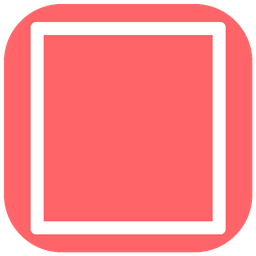
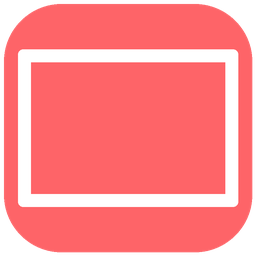
Ecran interne redessine en PAYSAGE d'apres le depot 'iPhone Duo - Night Sky - Inner Open Landscape' : grand rectangle ratio 1,40, coins 5 px, sur rouge. Inner_Display.png?v=2, app.js 202610251500.

Changed region(s): [[0.0625, 0.0625, 0.9375, 0.9375]]

diff --git a/iPhone/js/app.js b/iPhone/js/app.js
@@ -688,7 +688,7 @@ const componentIcons = {
     'Post Diags Failed': getIconPath('Post_Diags_Failed.svg'),
     'pSIM': getSquareIconPath('enclosure.svg'),
     'Outer Display': getSquareIconPath('Outer_Display.png?v=1'),
-    'Inner Display': getSquareIconPath('Inner_Display.png?v=1'),
+    'Inner Display': getSquareIconPath('Inner_Display.png?v=2'),
     'Inner Display Assembly': getSquareIconPath('Inner_Display_Assembly.png?v=2'),
     'Battery 1': getSquareIconPath('Battery_1.png?v=1'),
     'Battery 2': getSquareIconPath('Battery_2.png?v=1'),
@@ -727,7 +727,7 @@ const componentIconsLarge = {
     'Post Diags Failed': getIconPath('Post_Diags_Failed.svg'),
     'pSIM': getIconPath('enclosure.svg'),
     'Outer Display': getSquareIconPath('Outer_Display.png?v=1'),
-    'Inner Display': getSquareIconPath('Inner_Display.png?v=1'),
+    'Inner Display': getSquareIconPath('Inner_Display.png?v=2'),
     'Inner Display Assembly': getSquareIconPath('Inner_Display_Assembly.png?v=2'),
     'Battery 1': getSquareIconPath('Battery_1.png?v=1'),
     'Battery 2': getSquareIconPath('Battery_2.png?v=1'),

diff --git a/Mac/index.html b/Mac/index.html
@@ -291,6 +291,6 @@ body.mode-genius .dashboard-wrapper {
     <script src="./js/state.js?v=202609240526"></script>
     <script src="./js/render.js?v=202609240526"></script>
     <script src="./js/handlers.js?v=202609241141"></script>
-    <script src="./js/app.js?v=202610251430"></script>
+    <script src="./js/app.js?v=202610251500"></script>
 </body>
 </html>

diff --git a/iPhone/guides/iphone_15_plus_screw.html b/iPhone/guides/iphone_15_plus_screw.html
@@ -1001,7 +1001,7 @@
         });
     </script>
     <script src="../../assets/js/shared-app.js?v=202610031230"></script>
-    <script src="../js/app.js?v=202610251430"></script>
+    <script src="../js/app.js?v=202610251500"></script>
 </body>
 
 </html>

diff --git a/iPhone/guides/iphone_17_pro_max_screw.html b/iPhone/guides/iphone_17_pro_max_screw.html
@@ -1059,7 +1059,7 @@
         });
     </script>
     <script src="../../assets/js/shared-app.js?v=202610031230"></script>
-    <script src="../js/app.js?v=202610251430"></script>
+    <script src="../js/app.js?v=202610251500"></script>
 </body>
 
 </html>

diff --git a/iPhone/guides/iphone_17_pro_screw.html b/iPhone/guides/iphone_17_pro_screw.html
@@ -1058,7 +1058,7 @@
         });
     </script>
     <script src="../../assets/js/shared-app.js?v=202610031230"></script>
-    <script src="../js/app.js?v=202610251430"></script>
+    <script src="../js/app.js?v=202610251500"></script>
 </body>
 
 </html>

diff --git a/iPhone/guides/iphone_17_screw.html b/iPhone/guides/iphone_17_screw.html
@@ -1041,7 +1041,7 @@
         });
     </script>
     <script src="../../assets/js/shared-app.js?v=202610031230"></script>
-    <script src="../js/app.js?v=202610251430"></script>
+    <script src="../js/app.js?v=202610251500"></script>
 </body>
 
 </html>

diff --git a/iPhone/guides/iphone_18_pro_max_screw.html b/iPhone/guides/iphone_18_pro_max_screw.html
@@ -1059,7 +1059,7 @@
         });
     </script>
     <script src="../../assets/js/shared-app.js?v=202610031230"></script>
-    <script src="../js/app.js?v=202610251430"></script>
+    <script src="../js/app.js?v=202610251500"></script>
 </body>
 
 </html>

diff --git a/iPhone/guides/iphone_18_pro_screw.html b/iPhone/guides/iphone_18_pro_screw.html
@@ -1058,7 +1058,7 @@
         });
     </script>
     <script src="../../assets/js/shared-app.js?v=202610031230"></script>
-    <script src="../js/app.js?v=202610251430"></script>
+    <script src="../js/app.js?v=202610251500"></script>
 </body>
 
 </html>

diff --git a/iPhone/guides/iphone_air_screw.html b/iPhone/guides/iphone_air_screw.html
@@ -1044,7 +1044,7 @@
         });
     </script>
     <script src="../../assets/js/shared-app.js?v=202610031230"></script>
-    <script src="../js/app.js?v=202610251430"></script>
+    <script src="../js/app.js?v=202610251500"></script>
 </body>
 
 </html>

diff --git a/iPhone/guides/iphone_duo_screw.html b/iPhone/guides/iphone_duo_screw.html
@@ -1239,7 +1239,7 @@
         });
     </script>
     <script src="../../assets/js/shared-app.js?v=202610031230"></script>
-    <script src="../js/app.js?v=202610251430"></script>
+    <script src="../js/app.js?v=202610251500"></script>
 </body>
 
 </html>

diff --git a/iPhone/guides/iphone_11_pro_max_screw.html b/iPhone/guides/iphone_11_pro_max_screw.html
@@ -911,7 +911,7 @@
         });
     </script>
     <script src="../../assets/js/shared-app.js?v=202610031230"></script>
-    <script src="../js/app.js?v=202610251430"></script>
+    <script src="../js/app.js?v=202610251500"></script>
 </body>
 
 </html>

diff --git a/iPhone/guides/iphone_11_pro_screw.html b/iPhone/guides/iphone_11_pro_screw.html
@@ -911,7 +911,7 @@
         });
     </script>
     <script src="../../assets/js/shared-app.js?v=202610031230"></script>
-    <script src="../js/app.js?v=202610251430"></script>
+    <script src="../js/app.js?v=202610251500"></script>
 </body>
 
 </html>
